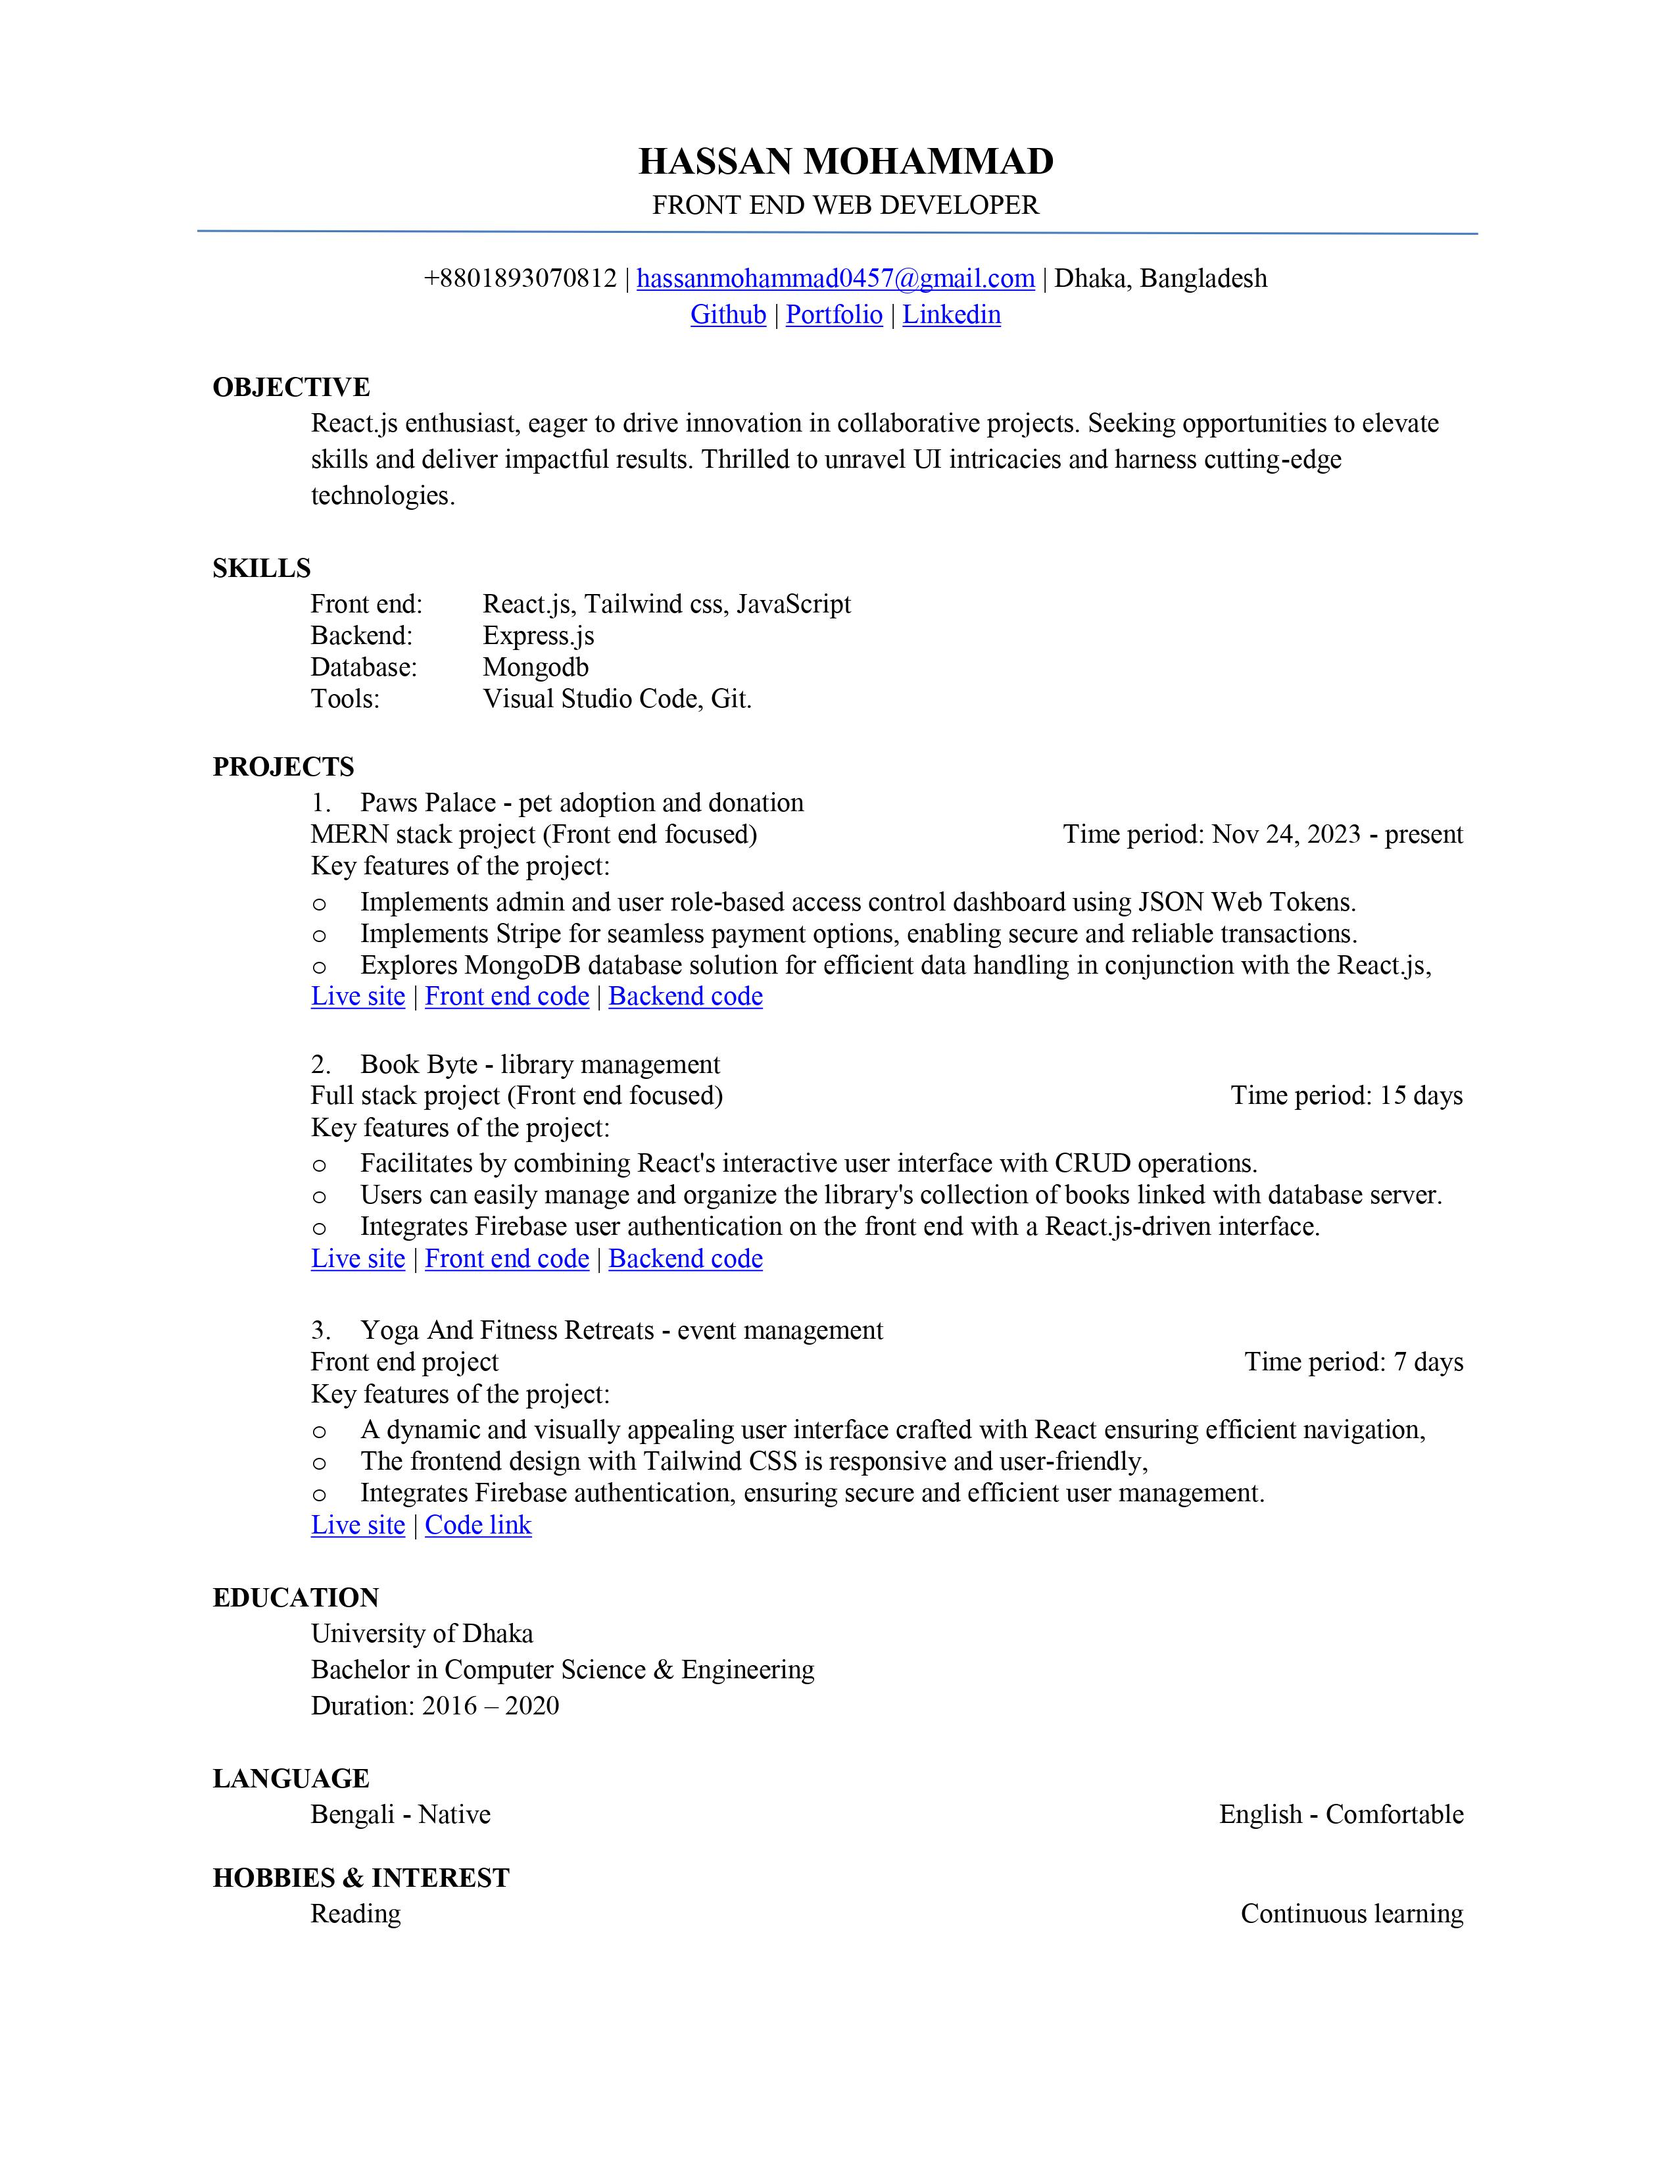
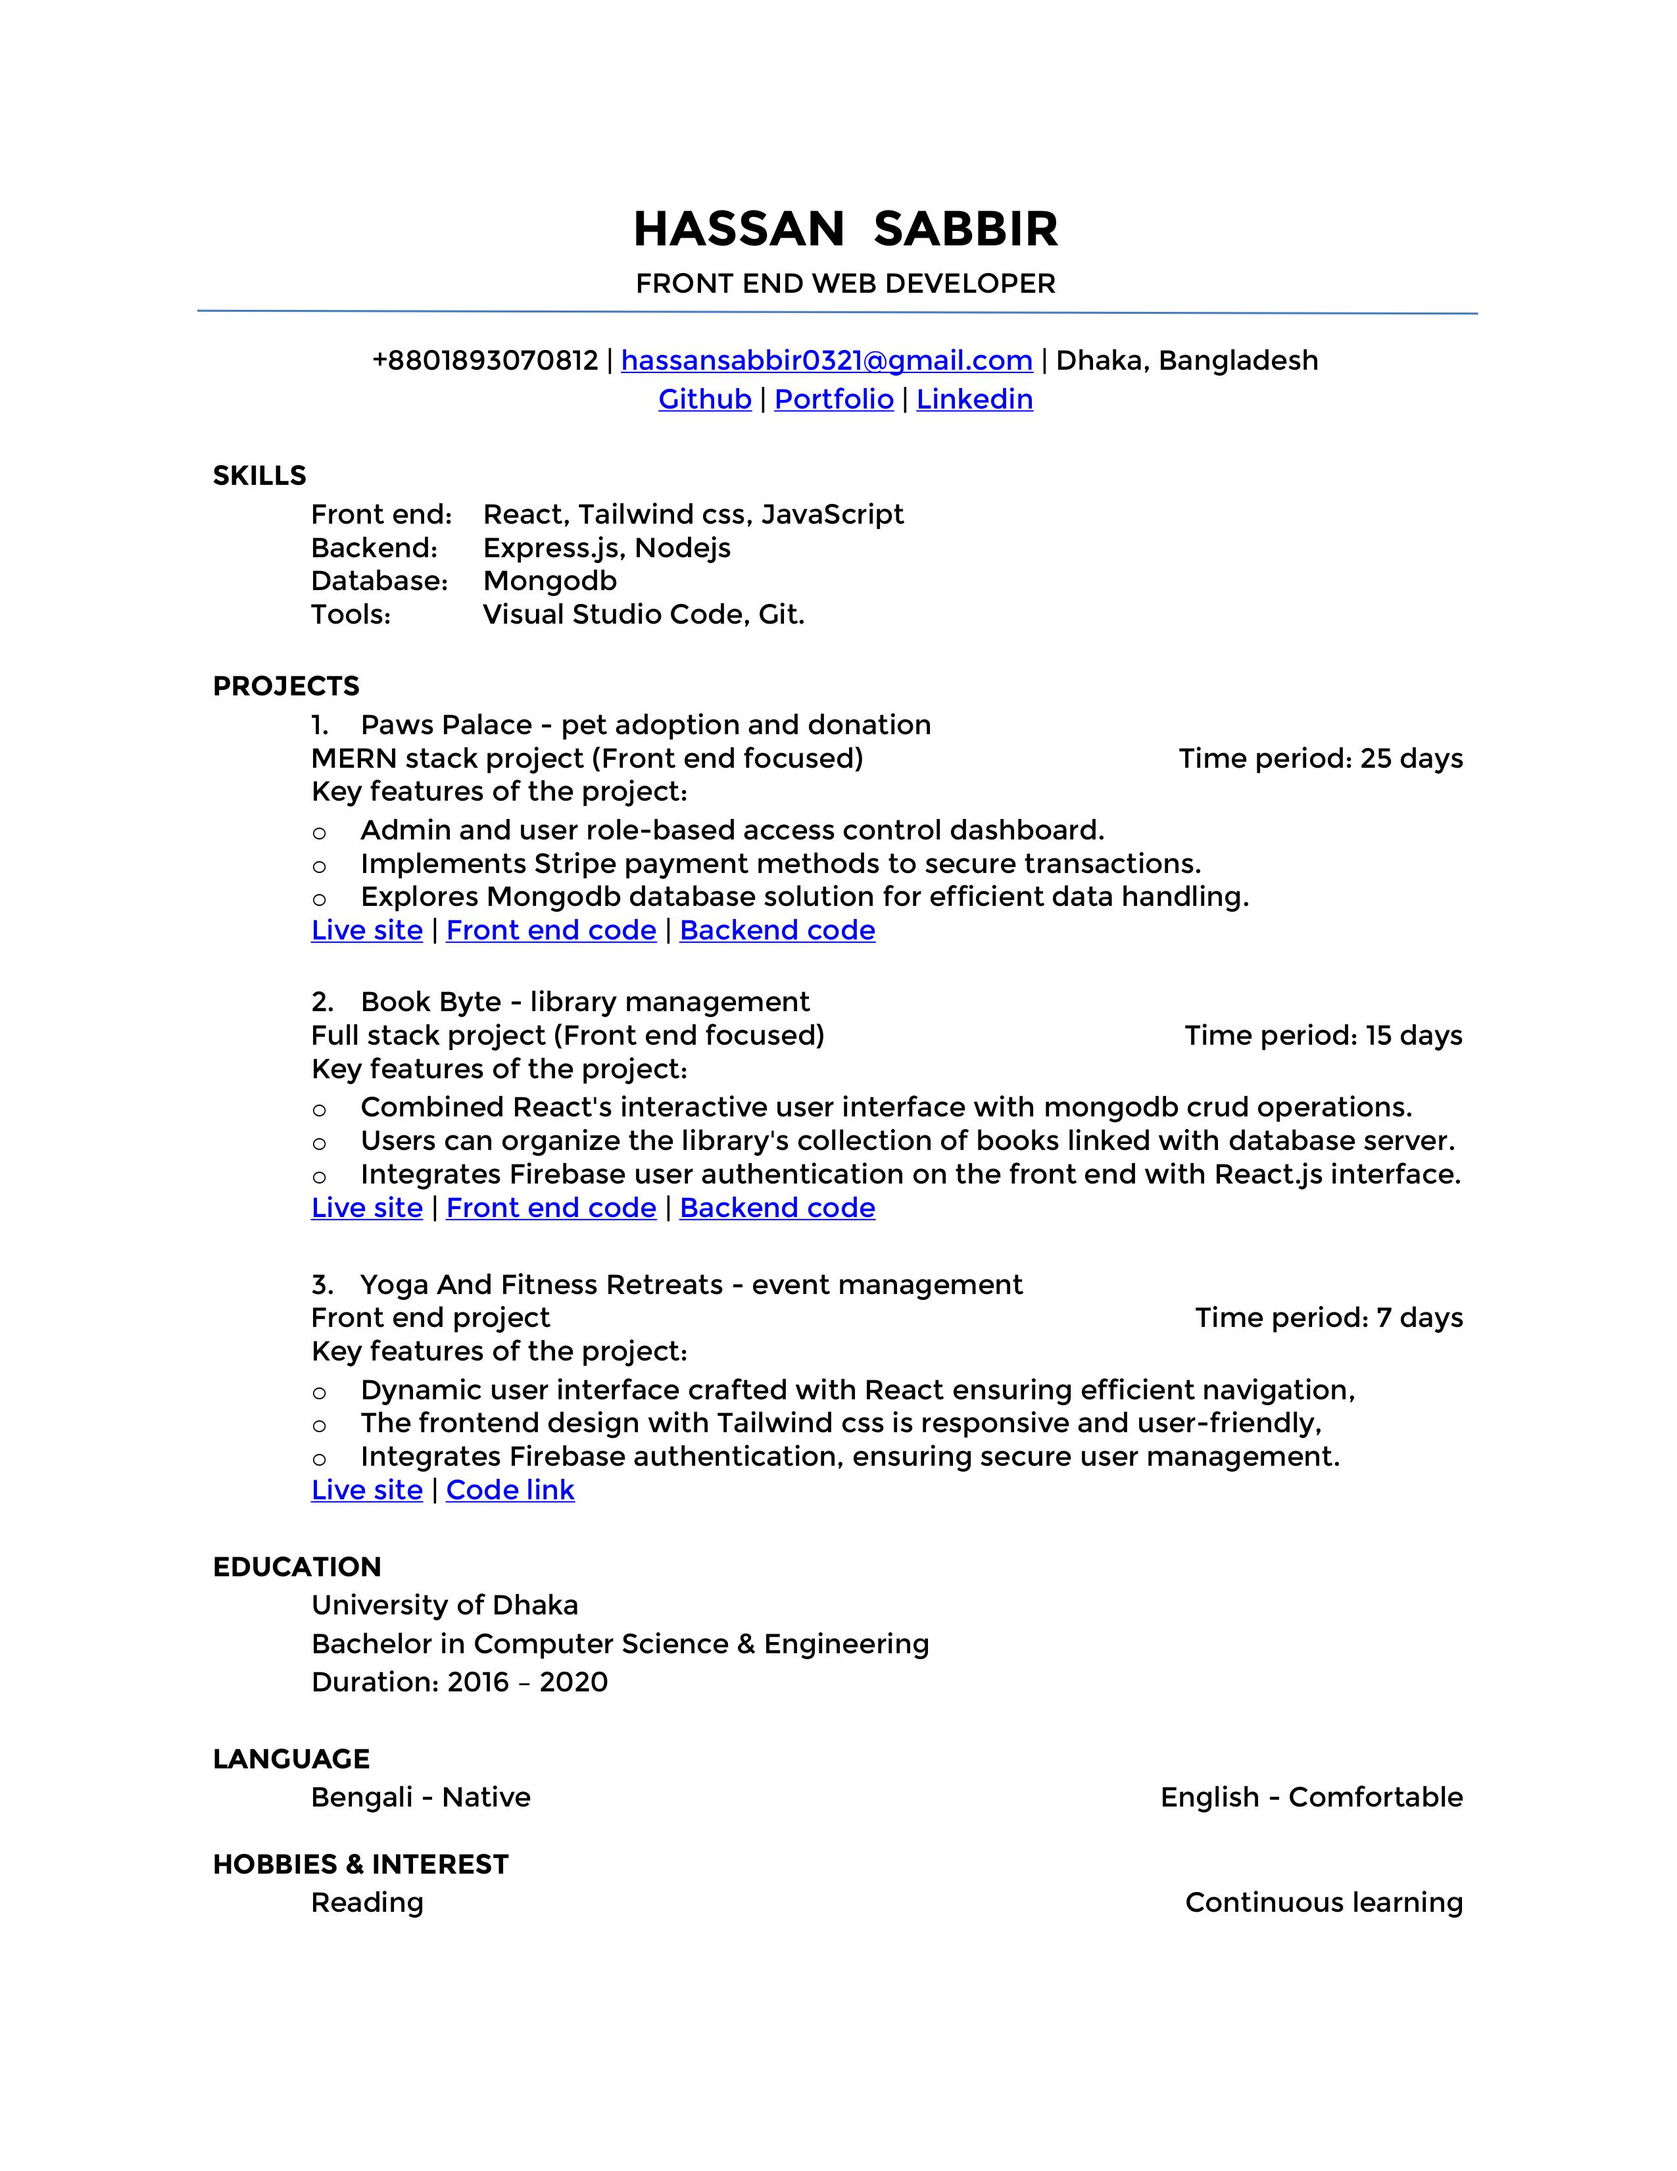
links fixed

diff --git a/src/Pages/Projects/ProjectCard.jsx b/src/Pages/Projects/ProjectCard.jsx
@@ -18,8 +18,7 @@ const ProjectCard = ({ project }) => {
       <div className="card bg-zinc-200/5 rounded-2xl relative flex flex-col md:flex-row p-5">
         <div className="card-body text-left flex flex-col gap-7 flex-1">
           <p>
-            Project title:{" "}
-            <p className="font-black text-green-600 text-xl">{websiteName}</p>
+            Project title: <p className="font-black text-xl">{websiteName}</p>
           </p>
           <p>
             Language/technology used:{" "}
@@ -33,7 +32,7 @@ const ProjectCard = ({ project }) => {
         </div>
         <div className="divider divider-success"></div>
         <div className="flex-1 flex justify-center items-center">
-          <div className="flex flex-col gap-5 text-left text-sm text-green-400">
+          <div className="flex flex-col gap-5 text-left text-sm">
             <a
               href={liveSiteLink}
               target="_blank"

diff --git a/src/Components/Footer/Footer.jsx b/src/Components/Footer/Footer.jsx
@@ -9,7 +9,7 @@ const Footer = () => {
         <div className="flex flex-col text-left">
           <h3 className="font-black text-xl">Contacts</h3>
           <p className="flex flex-col text-left text-sm text-zinc-300/70">
-            <small>email: hassanmohammad0457@gmail.com</small>
+            <small>email: hassansabbir0321@gmail.com</small>
             <small>phone: +880 1893 070812</small>
             <small>location: Dhaka, Bangladesh</small>
           </p>
@@ -31,7 +31,7 @@ const Footer = () => {
             Linkedin
           </a>
           <a
-            href="https://drive.google.com/file/d/1UhelAqtzdFCTa2sS1GnNLiBQYjK8cKgd/view?usp=sharing"
+            href="https://docs.google.com/document/d/1HqzqNTkhtamA70NjiNhPmuCkvJ6tX0z7/edit?usp=sharing&ouid=112922815759485059346&rtpof=true&sd=true"
             target="_blanc"
             className="link link-hover"
           >

diff --git a/src/Pages/Resume/Resume.jsx b/src/Pages/Resume/Resume.jsx
@@ -8,7 +8,7 @@ const Resume = () => {
   const subTitle =
     "Feel free to skip the download button and dive straight into the awesomeness that is my professional summary. It's like the golden nugget of my career story – compact, compelling, and ready to make a lasting impression. Let's make this journey through my skills and achievements a memorable one!.";
   const cvDownloadLink =
-    "https://drive.google.com/uc?export=download&id=1UhelAqtzdFCTa2sS1GnNLiBQYjK8cKgd";
+    "https://drive.google.com/uc?export=download&id=1JqRq3T4lgpVoN9e2daNW2ib_hzDfO62C";
 
   return (
     <div>

diff --git a/src/Pages/Skills/SkillCard.jsx b/src/Pages/Skills/SkillCard.jsx
@@ -3,7 +3,7 @@ const SkillCard = ({ skill }) => {
   return (
     <div className="card bg-zinc-300/10 rounded-lg relative">
       <div className="card-body text-center flex flex-col gap-7">
-        <span className="font-black text-2xl text-green-400 uppercase">
+        <span className="font-bold text-xl text-yellow-400 uppercase">
           {title}
         </span>{" "}
         <p className="text-sm">{details}</p>
